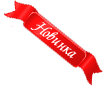
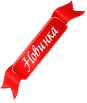
Fix stickers & archive

diff --git a/frontend/static/css/main.css b/frontend/static/css/main.css
@@ -258,12 +258,77 @@ button, button:hover, button:focus, button:active {
     /*right: -12px;*/
 }
 
+i.pos-1 {
+    width: 100px;
+    height: 100px;
+    top: -10px;
+    right: inherit;
+    left: -13px;
+    background: url(../img/new-st-1.png) 0 0 no-repeat;
+}
+
+i.pos-2 {
+    width: 103px;
+    height: 87px;
+    top: -10px;
+    right: -12px;
+    background: url(../img/new-st-1.png) 0 0 no-repeat;
+}
+
 i.pos-3 {
     width: 103px;
     height: 87px;
     top: -10px;
     right: -12px;
     background: url(../img/new-st-1.png) 0 0 no-repeat;
+}
+
+i.pos-4 {
+    width: 103px;
+    height: 87px;
+    top: -10px;
+    right: -12px;
+    background: url(../img/new-st-4.png) 0 0 no-repeat;
+}
+
+i.sticker-pos-1 {
+    position: absolute;
+    z-index: 99;
+    width: 100px;
+    height: 100px;
+    top: -10px;
+    left: 3px;
+    background: url(../img/new-st-1.png) 0 0 no-repeat;
+}
+
+i.sticker-pos-2 {
+    position: absolute;
+    z-index: 99;
+    width: 103px;
+    height: 87px;
+    top: -10px;
+    left: 373px;
+    background: url(../img/new-st-4.png) 0 0 no-repeat;
+}
+
+i.sticker-pos-3 {
+    position: absolute;
+    z-index: 99;
+    width: 103px;
+    height: 87px;
+    top: -10px;
+    left: 373px;
+    background: url(../img/new-st-4.png) 0 0 no-repeat;
+}
+
+i.sticker-pos-4 {
+    position: absolute;
+    z-index: 99;
+    width: 103px;
+    height: 87px;
+    top: -10px;
+    left: 373px;
+    background: url(../img/new-st-4.png) 0 0 no-repeat;
 }
 
 i.archive {

diff --git a/frontend/pages/index.vue b/frontend/pages/index.vue
@@ -14,7 +14,7 @@
                         <div class="product" v-for="product in newProducts">
                             <n-link :to="product.url" v-show="showImage">
                                 <div class="product__content">
-                                    <i class="pos-3"></i>
+                                    <i :class="'pos-' + product.jan"></i>
                                     <img
                                         :src="apiWebUrl + '/image/' + product.image_url" alt=""
                                         @error="imageUrlAlt"

diff --git a/frontend/static/css/media.css b/frontend/static/css/media.css
@@ -347,6 +347,11 @@
 }
 
 @media (max-width: 768px) {
+    i.sticker-pos-4 {
+        left: inherit;
+        right: 7px;
+    }
+
     i.prod {
         right: -1px;
         top: -40px;
@@ -439,7 +444,6 @@
     /*.slider-related .swiper-wrapper {*/
     /*    width: 100%;*/
     /*}*/
-
     .footer-mobile {
         display: flex;
     }
@@ -602,6 +606,7 @@
     }
 
 }
+
 @media (max-width: 320px) {
     .slider .swiper-slide img {
         width: 95%;

diff --git a/frontend/components/Product.vue b/frontend/components/Product.vue
@@ -14,6 +14,7 @@
         <div class="row">
             <div class="col-12">
                 <div class="product-select">
+                    <i :class="'sticker-pos-' + product.jan" v-if="product.jan && !archive"></i>
                     <i class="prod" v-if="archive"></i>
                     <div class="slider">
                         <div class="slider__zoom">

diff --git a/app/Repositories/Web/ProductRepository.php b/app/Repositories/Web/ProductRepository.php
@@ -82,6 +82,7 @@ class ProductRepository
         $products = $this->product
             ->with('description')
             ->where('upc', 'new')
+            ->where('manufacturer_id', '<>>', 8)
             ->where('status', true)
             ->orderBy('upc_date', 'desc')
             ->limit($limit)
@@ -304,6 +305,7 @@ class ProductRepository
                     'gallery' => $gallery,
                     'attributes' => $attribute,
                     'archive' => $product['manufacturer_id'] === 8,
+                    'jan' => $product['jan'],
                 ];
 
                 //dd($productData);
@@ -647,6 +649,7 @@ class ProductRepository
                 'url' => $url ?? '',
                 'price' => self::priceFormat($item['price']),
                 'article' => $item['sku'],
+                'jan' => $item['jan'],
             ];
         }
 
